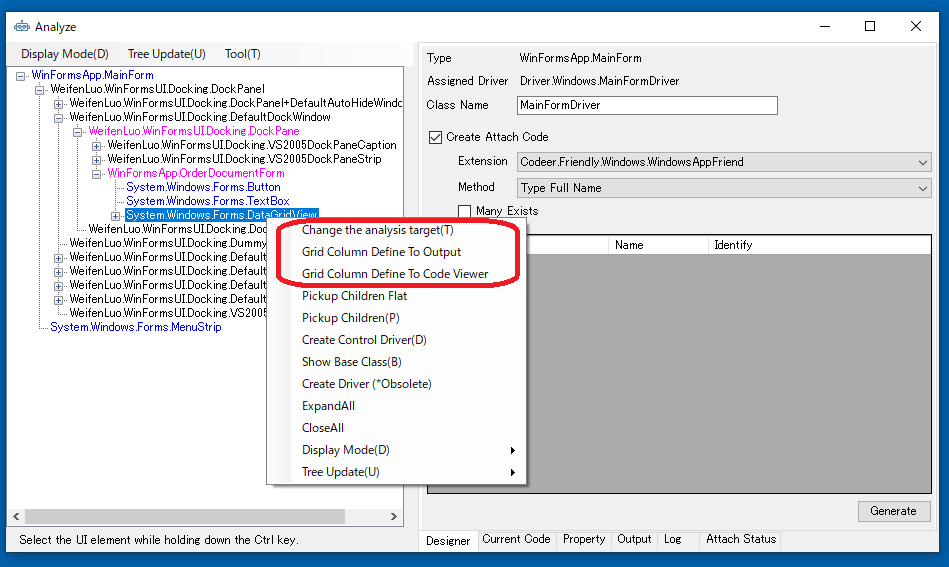
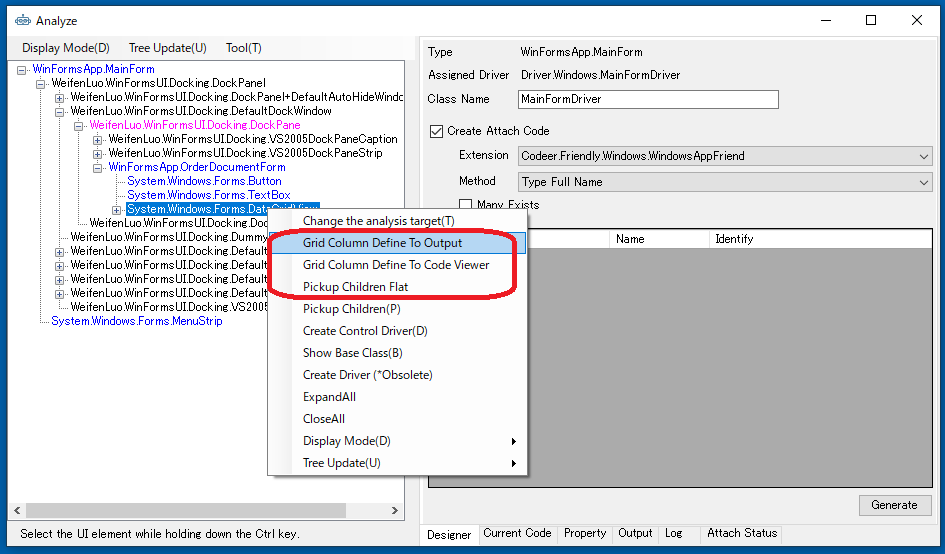
ドキュメント作成中

Changed region(s): [[0.0, 0.0, 1.0, 1.0]]

diff --git a/WinForms/Customize.md b/WinForms/Customize.md
@@ -51,8 +51,6 @@ namespace Driver.InTarget
     }
 }
 ```
-//TODO 画像ずれている
-
 ![IWindowAnalysisMenuAction.png](Img/IWindowAnalysisMenuAction.png)
 
 ### Outputへの出力
@@ -206,7 +204,7 @@ DriverCreatorAdapter は IWindowAnalysisMenuAction, IDriverElementNameGenerator 
 新規したときにAssertが仕込まれています。
 このコードを元に解説します。
 CapterAttachTreeMenuAction を実装中は Ctrl キー を押しながら Capture 実行でデバッグできます。
-またここでも[Logger]()を使うことができます。
+またここでも[Logger](WIndowDriver.md#デバッグ)を使うことができます。
 
 ```cs
 using System;
